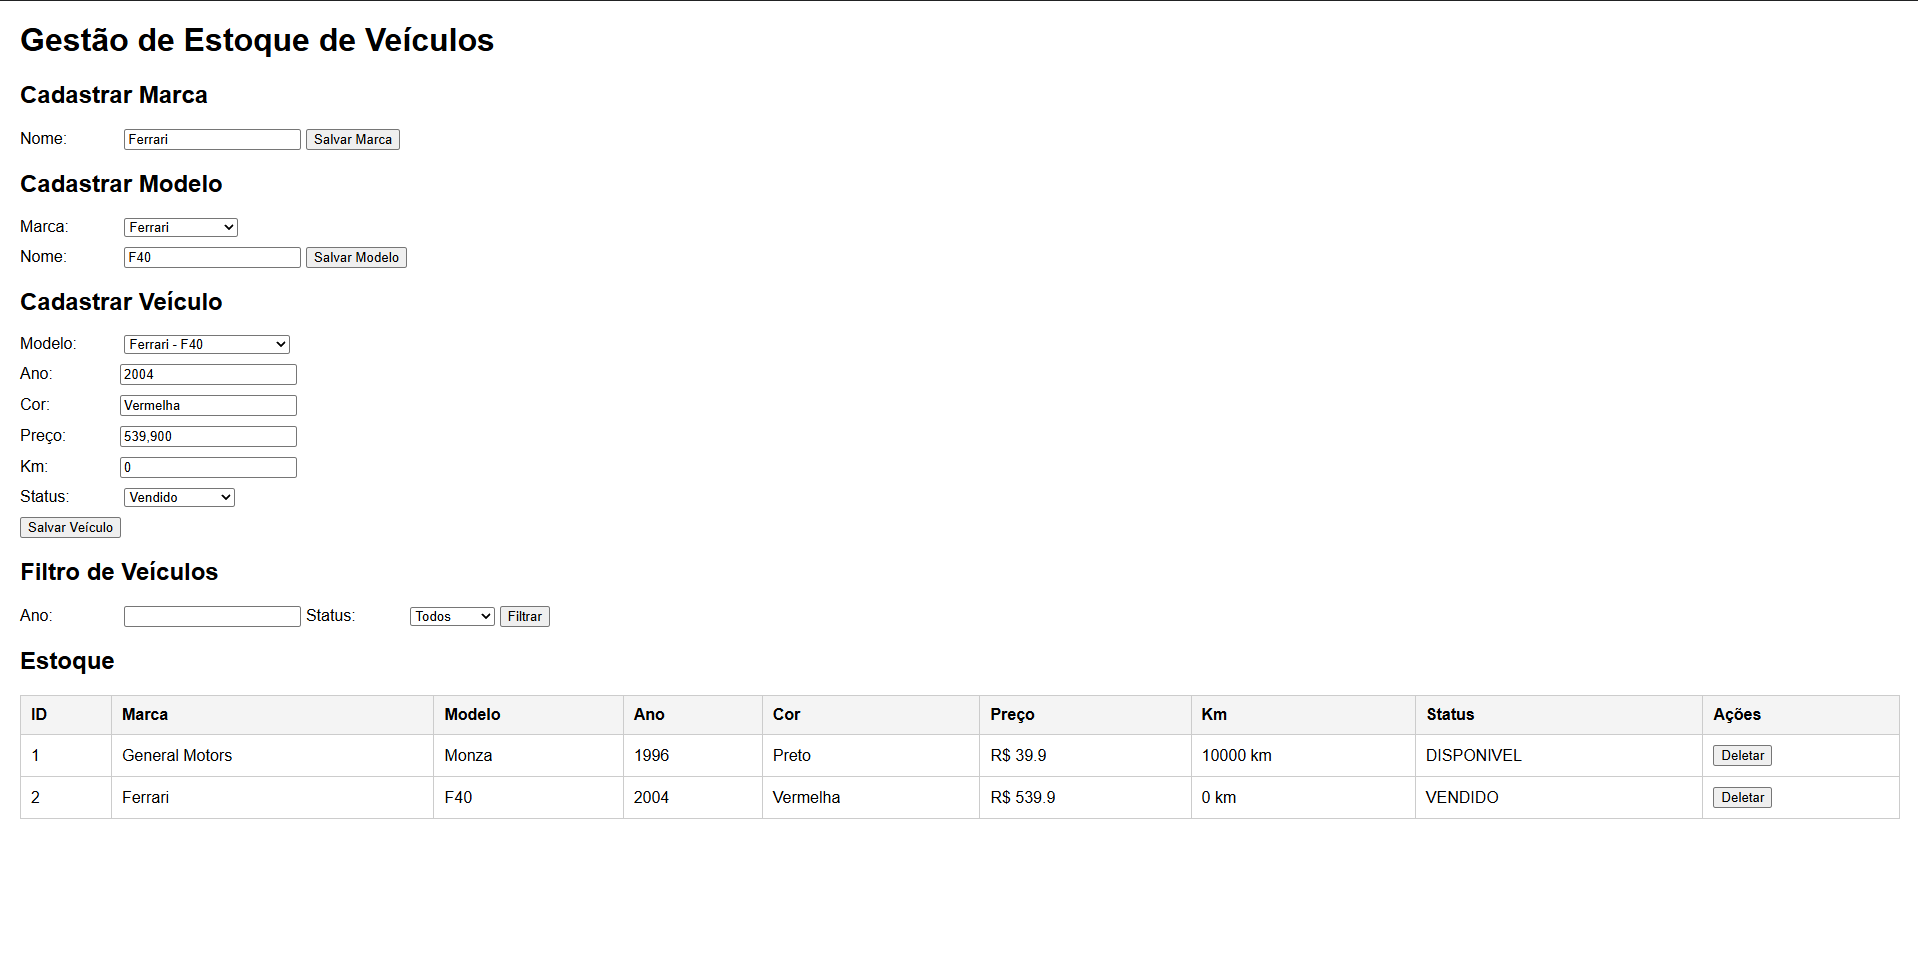
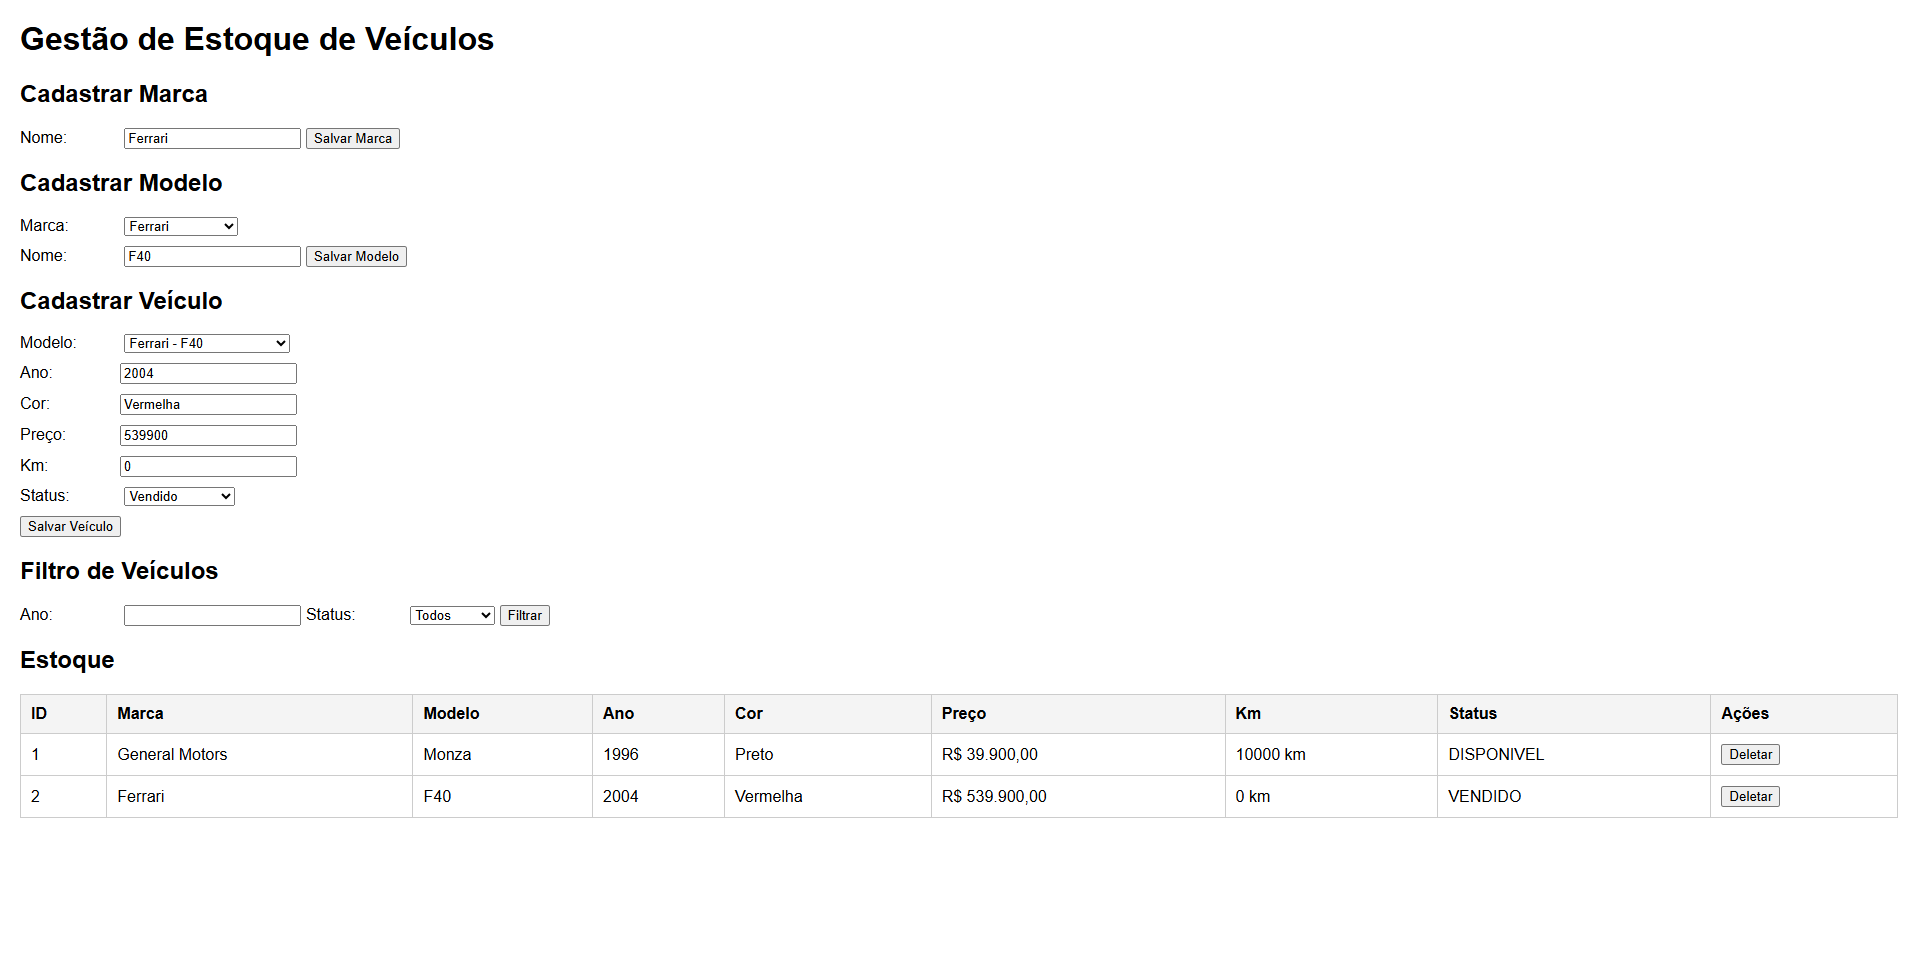
fix: exibe o preço formatado em reais

diff --git a/src/main/resources/static/index.html b/src/main/resources/static/index.html
@@ -78,6 +78,9 @@
     <script>
         const API = 'http://localhost:8080/api';
 
+        // Mostra o preço como moeda brasileira (R$ 539.900,00) em vez do número cru
+        const formatarPreco = (valor) => Number(valor).toLocaleString('pt-BR', { style: 'currency', currency: 'BRL' });
+
         async function carregarMarcas() {
             const res = await fetch(`${API}/marcas`);
             const marcas = await res.json();
@@ -109,7 +112,7 @@
                     <td>${v.modelo.nome}</td>
                     <td>${v.anoFabricacao}</td>
                     <td>${v.cor}</td>
-                    <td>R$ ${v.preco}</td>
+                    <td>${formatarPreco(v.preco)}</td>
                     <td>${v.quilometragem} km</td>
                     <td>${v.status}</td>
                     <td><button onclick="deletarVeiculo(${v.id})">Deletar</button></td>
